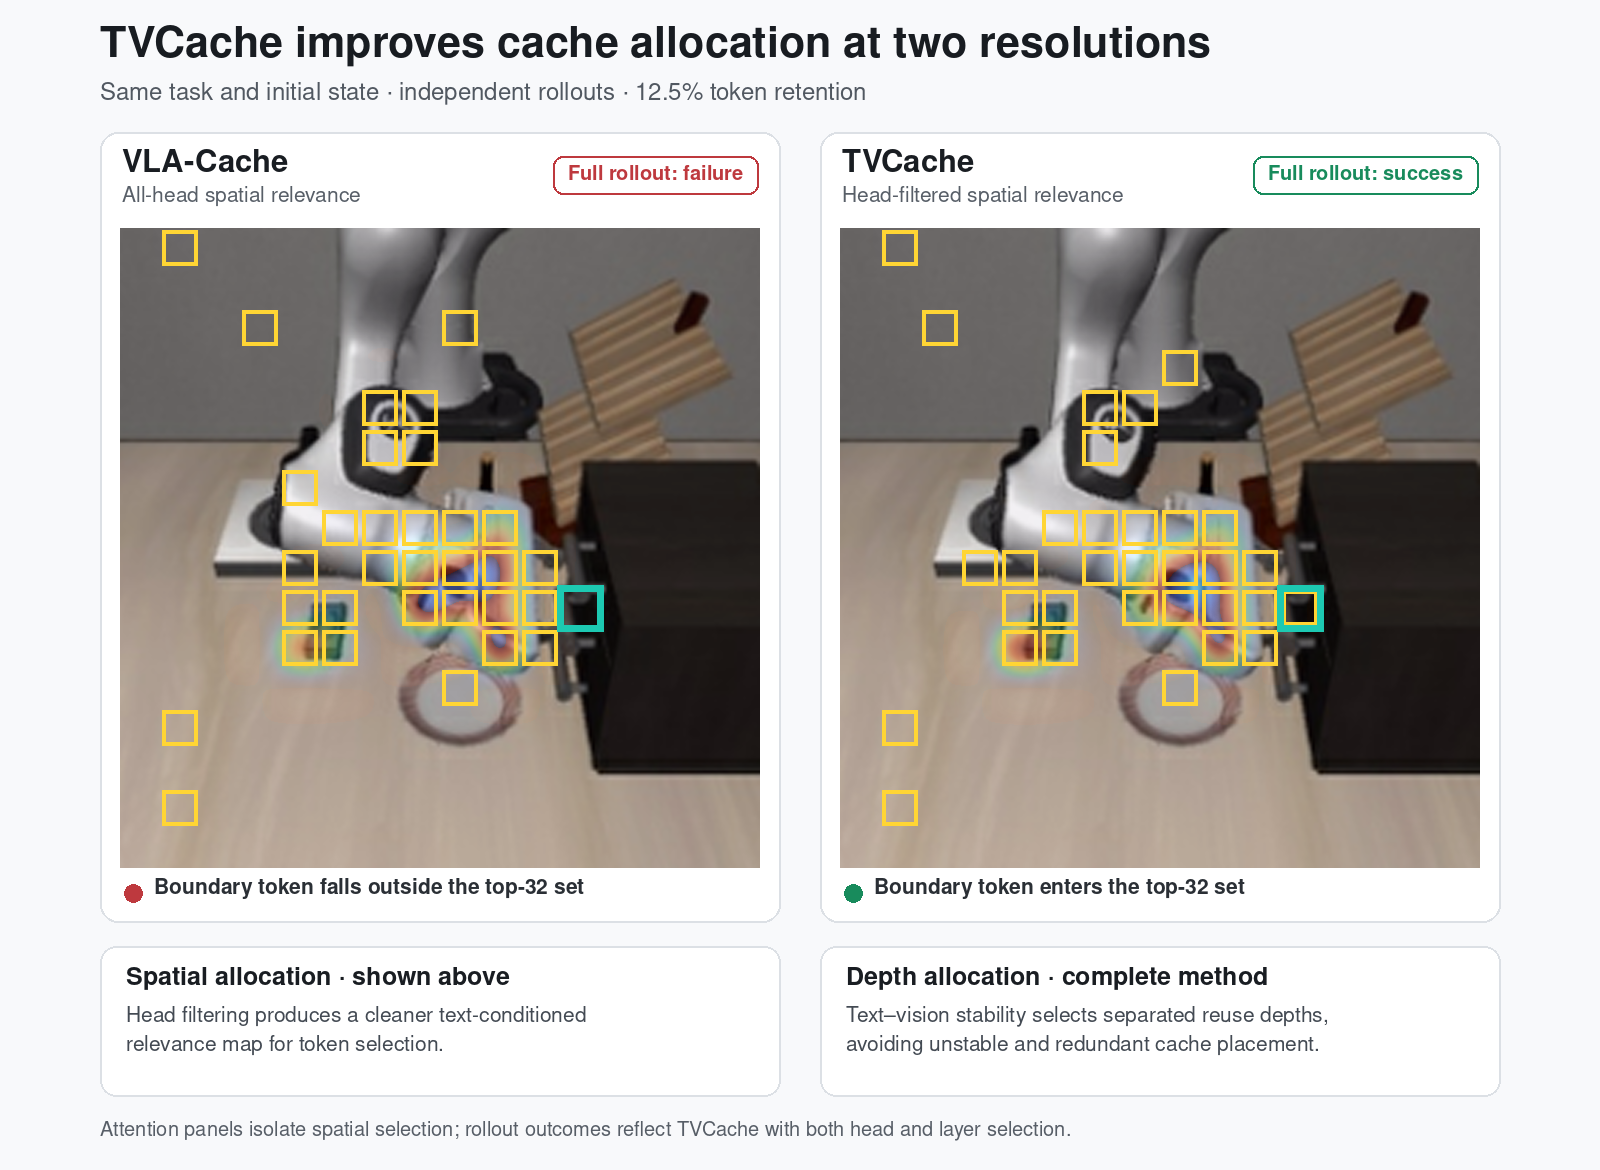
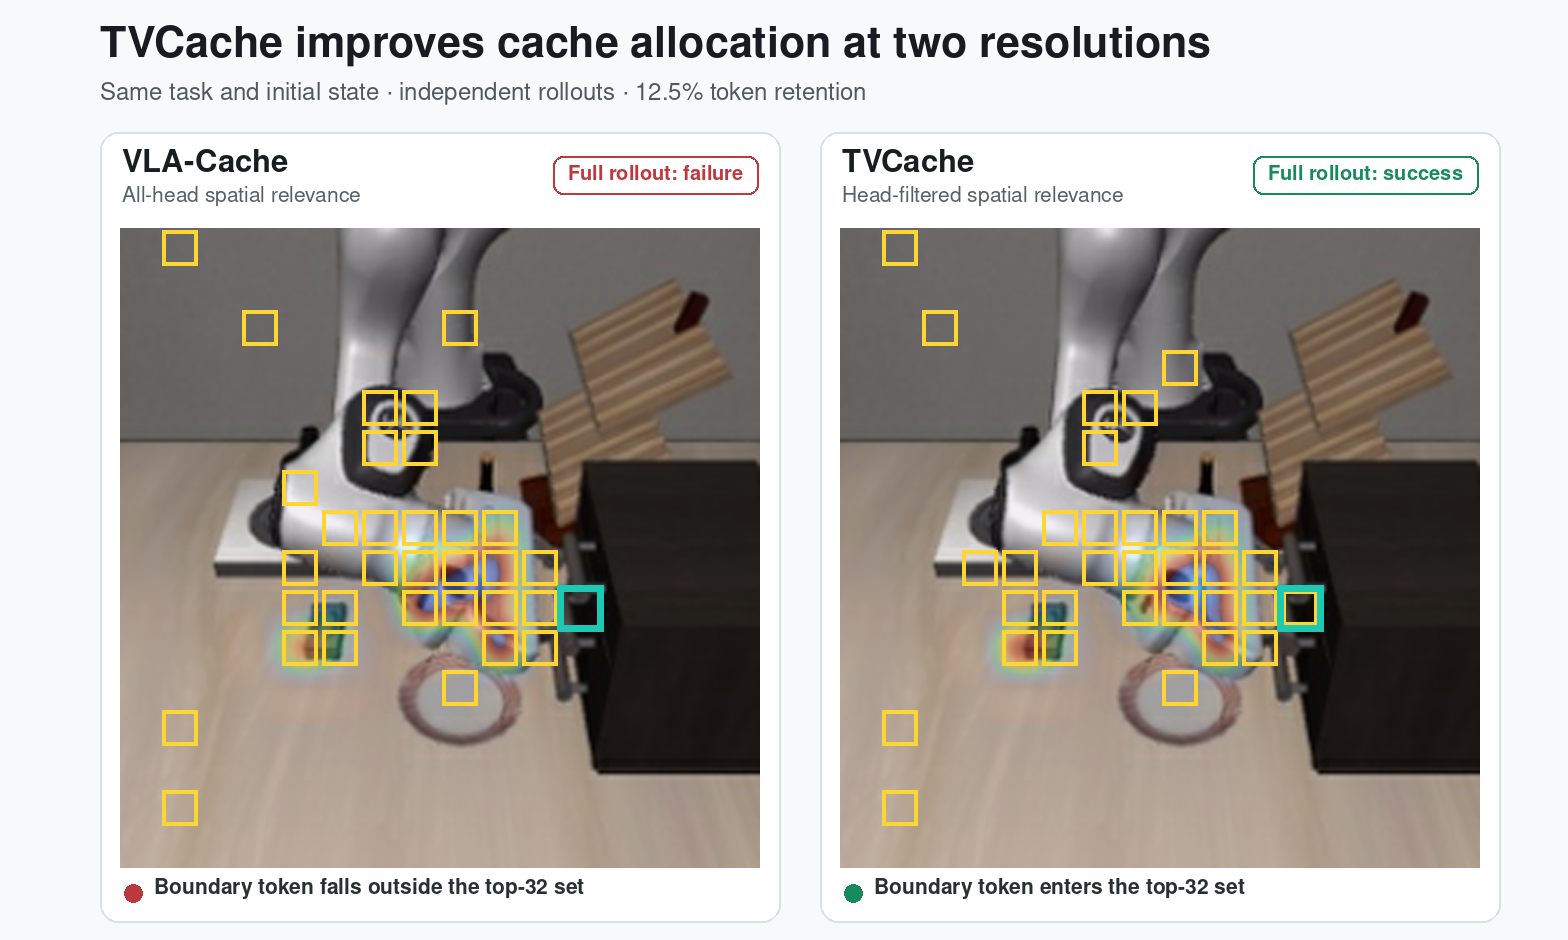
Simplify qualitative and results sections

diff --git a/index.html b/index.html
@@ -83,7 +83,7 @@
           The attention maps isolate spatial selection: VLA-Cache misses a drawer-handle boundary token, while TVCache retains it under the same top-32 budget. TVCache also selects stable, separated reuse layers.
         </p>
         <figure class="qualitative-figure">
-          <img src="assets/qualitative/drawer-critical-attention.png" alt="TVCache improves spatial token selection through head filtering and depth allocation through reuse-layer selection." loading="lazy" decoding="async">
+          <img src="assets/qualitative/drawer-critical-attention.png" alt="VLA-Cache misses a drawer-handle boundary token while TVCache retains it under the same token budget." loading="lazy" decoding="async">
         </figure>
       </div>
     </section>
@@ -95,15 +95,7 @@
           The following clips visualize cache allocation over representative complete trajectories at three retention settings. They illustrate token-selection behavior; the independent outcome comparison is reported above.
         </p>
 
-        <h3 class="dynamics-heading">Failure-to-Success Example</h3>
-        <article class="failure-recovery-task">
-          <h4>LIBERO-Goal <span>Open the middle drawer of the cabinet.</span></h4>
-          <figure>
-            <img class="rollout-gif" src="assets/qualitative/vla-cache-failure-tvcache-success.gif" alt="Independent matched rollouts in which VLA-Cache fails and TVCache succeeds." loading="lazy" decoding="async">
-          </figure>
-        </article>
-
-        <h3 class="dynamics-heading additional-rollouts-heading">Additional LIBERO Rollouts</h3>
+        <h3 class="dynamics-heading">LIBERO Simulation</h3>
         <p class="budget-note">Blue patches are reused; yellow patches are recomputed. Each task is shown at all three retention settings.</p>
 
         <article class="comparison-task simulation-task">
@@ -187,36 +179,11 @@
         <h2>Results</h2>
         <h3 class="result-heading">Simulation Results</h3>
         <p class="section-intro">
-          Average success rate on LIBERO at matched token-retention ratios. TVCache consistently improves over VLA-Cache, with the largest gain appearing under the tightest OpenVLA-OFT budget.
+          Ablations across token-retention settings show that both task-relevant head selection and reuse-layer selection contribute to TVCache, with the largest gains appearing under aggressive token reuse.
         </p>
-        <p class="result-summary">
-          On OpenVLA-OFT, TVCache improves average success by <strong>14.50 percentage points</strong> over VLA-Cache at 12.5% token retention while reducing FLOPs by <strong>2.44×</strong> relative to full-token inference.
-        </p>
-        <div class="table-wrap">
-          <table>
-            <thead>
-              <tr>
-                <th>VLA model</th>
-                <th>Tokens retained</th>
-                <th>VLA-Cache</th>
-                <th>TVCache</th>
-                <th>Gain</th>
-              </tr>
-            </thead>
-            <tbody>
-              <tr><td>OpenVLA-OFT</td><td>50%</td><td>96.80%</td><td><strong>97.55%</strong></td><td class="gain">+0.75 pp</td></tr>
-              <tr><td>OpenVLA-OFT</td><td>25%</td><td>87.85%</td><td><strong>95.55%</strong></td><td class="gain">+7.70 pp</td></tr>
-              <tr><td>OpenVLA-OFT</td><td>12.5%</td><td>69.50%</td><td><strong>84.00%</strong></td><td class="gain">+14.50 pp</td></tr>
-              <tr class="group-start"><td>BitVLA</td><td>50%</td><td>93.90%</td><td><strong>95.00%</strong></td><td class="gain">+1.10 pp</td></tr>
-              <tr><td>BitVLA</td><td>25%</td><td>93.15%</td><td><strong>94.90%</strong></td><td class="gain">+1.75 pp</td></tr>
-              <tr><td>BitVLA</td><td>12.5%</td><td>92.50%</td><td><strong>94.05%</strong></td><td class="gain">+1.55 pp</td></tr>
-              <tr class="group-start"><td>VLA-Adapter</td><td>50%</td><td>77.35%</td><td><strong>79.95%</strong></td><td class="gain">+2.60 pp</td></tr>
-              <tr><td>VLA-Adapter</td><td>25%</td><td>48.35%</td><td><strong>54.40%</strong></td><td class="gain">+6.05 pp</td></tr>
-              <tr class="group-start"><td>π<sub>0.5</sub></td><td>50%</td><td>97.20%</td><td><strong>98.45%</strong></td><td class="gain">+1.25 pp</td></tr>
-              <tr><td>π<sub>0.5</sub></td><td>25%</td><td>89.20%</td><td><strong>94.75%</strong></td><td class="gain">+5.55 pp</td></tr>
-            </tbody>
-          </table>
-        </div>
+        <figure class="compact-figure simulation-ablation-figure">
+          <img src="assets/ablation-study.png" alt="Ablation study of task-relevant head selection and reuse-layer selection on OpenVLA-OFT and BitVLA." loading="lazy" decoding="async">
+        </figure>
         <h3 class="result-heading real-world-heading">Real-World Results</h3>
         <p>
           We further evaluate TVCache on four physical manipulation tasks with a Franka Research 3 robot. The comparison below reports success rates at matched token-retention ratios.
